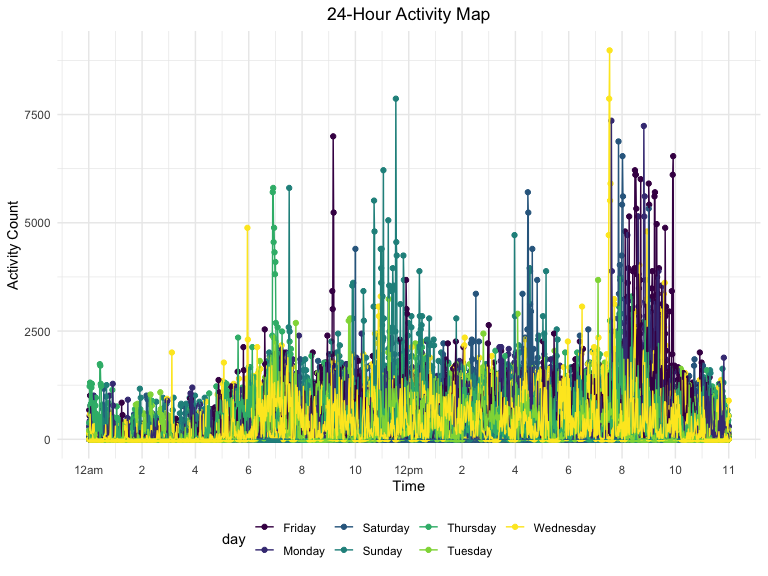
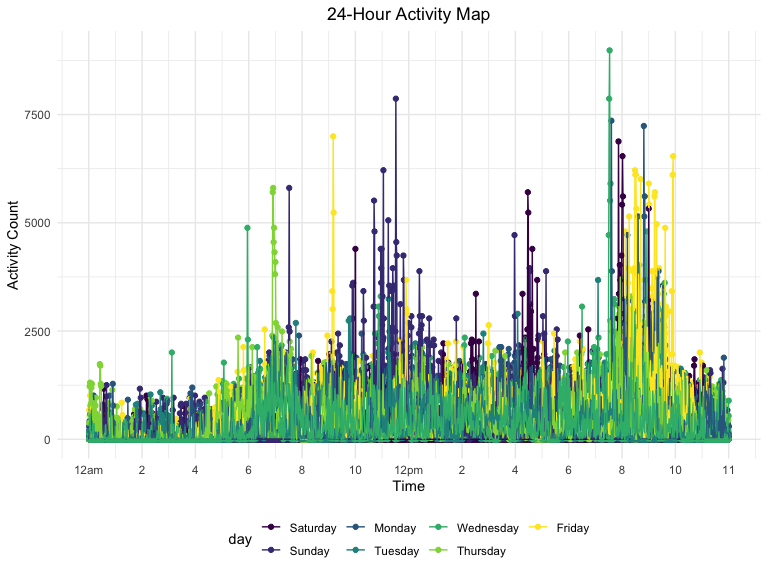
weekday char to factor

diff --git a/p8105_hw3_rs4025.md b/p8105_hw3_rs4025.md
@@ -1058,13 +1058,14 @@ accel =
     names_to = "minute_num", 
     values_to = "activity_count", 
     names_prefix = "activity_") %>% 
-  mutate( minute_num = as.numeric(minute_num), 
+  mutate( minute_num = as.numeric(minute_num),
           day_type = replace( day , 
                              day %in% c("Saturday", "Sunday"),
                              "weekend"), 
          day_type = replace( day_type , 
                              day %in% c("Monday", "Tuesday", "Wednesday", "Thursday", "Friday"),
-                             "weekday")) %>% 
+                             "weekday"),
+         day = forcats::fct_relevel(day, c("Saturday", "Sunday","Monday", "Tuesday", "Wednesday", "Thursday", "Friday"))) %>% 
   select( week, day_id, day, day_type, everything())
 ```
 
@@ -1075,7 +1076,7 @@ The data set `accel` reports accelerometer data of a 63 year-old man for
   - `week`: numeric, representing week number (1-5)
   - `day_id`: numeric, number of day (1-35) with no significant meaning
     to ordering
-  - `day`: character, weekday
+  - `day`: factor, weekday (Saturday- level 1, to Friday- level 7)
   - `day_type`: character, values: weekend or weekday
   - `minute_num`: numeric, minute number (1-1440)
   - `activity_count`: numeric, data reported on activity
@@ -1117,18 +1118,6 @@ week
 
 <th style="text-align:right;">
 
-Friday
-
-</th>
-
-<th style="text-align:right;">
-
-Monday
-
-</th>
-
-<th style="text-align:right;">
-
 Saturday
 
 </th>
@@ -1141,7 +1130,7 @@ Sunday
 
 <th style="text-align:right;">
 
-Thursday
+Monday
 
 </th>
 
@@ -1154,6 +1143,18 @@ Tuesday
 <th style="text-align:right;">
 
 Wednesday
+
+</th>
+
+<th style="text-align:right;">
+
+Thursday
+
+</th>
+
+<th style="text-align:right;">
+
+Friday
 
 </th>
 
@@ -1173,18 +1174,6 @@ Wednesday
 
 <td style="text-align:right;">
 
-480542.6
-
-</td>
-
-<td style="text-align:right;">
-
-78828.07
-
-</td>
-
-<td style="text-align:right;">
-
 376254
 
 </td>
@@ -1197,7 +1186,7 @@ Wednesday
 
 <td style="text-align:right;">
 
-355923.6
+78828.07
 
 </td>
 
@@ -1213,6 +1202,18 @@ Wednesday
 
 </td>
 
+<td style="text-align:right;">
+
+355923.6
+
+</td>
+
+<td style="text-align:right;">
+
+480542.6
+
+</td>
+
 </tr>
 
 <tr>
@@ -1220,18 +1221,6 @@ Wednesday
 <td style="text-align:right;">
 
 2
-
-</td>
-
-<td style="text-align:right;">
-
-568839.0
-
-</td>
-
-<td style="text-align:right;">
-
-295431.00
 
 </td>
 
@@ -1249,7 +1238,7 @@ Wednesday
 
 <td style="text-align:right;">
 
-474048.0
+295431.00
 
 </td>
 
@@ -1265,6 +1254,18 @@ Wednesday
 
 </td>
 
+<td style="text-align:right;">
+
+474048.0
+
+</td>
+
+<td style="text-align:right;">
+
+568839.0
+
+</td>
+
 </tr>
 
 <tr>
@@ -1272,18 +1273,6 @@ Wednesday
 <td style="text-align:right;">
 
 3
-
-</td>
-
-<td style="text-align:right;">
-
-467420.0
-
-</td>
-
-<td style="text-align:right;">
-
-685910.00
 
 </td>
 
@@ -1301,7 +1290,7 @@ Wednesday
 
 <td style="text-align:right;">
 
-371230.0
+685910.00
 
 </td>
 
@@ -1317,6 +1306,18 @@ Wednesday
 
 </td>
 
+<td style="text-align:right;">
+
+371230.0
+
+</td>
+
+<td style="text-align:right;">
+
+467420.0
+
+</td>
+
 </tr>
 
 <tr>
@@ -1324,18 +1325,6 @@ Wednesday
 <td style="text-align:right;">
 
 4
-
-</td>
-
-<td style="text-align:right;">
-
-154049.0
-
-</td>
-
-<td style="text-align:right;">
-
-409450.00
 
 </td>
 
@@ -1353,7 +1342,7 @@ Wednesday
 
 <td style="text-align:right;">
 
-340291.0
+409450.00
 
 </td>
 
@@ -1369,6 +1358,18 @@ Wednesday
 
 </td>
 
+<td style="text-align:right;">
+
+340291.0
+
+</td>
+
+<td style="text-align:right;">
+
+154049.0
+
+</td>
+
 </tr>
 
 <tr>
@@ -1376,18 +1377,6 @@ Wednesday
 <td style="text-align:right;">
 
 5
-
-</td>
-
-<td style="text-align:right;">
-
-620860.0
-
-</td>
-
-<td style="text-align:right;">
-
-389080.00
 
 </td>
 
@@ -1405,7 +1394,7 @@ Wednesday
 
 <td style="text-align:right;">
 
-549658.0
+389080.00
 
 </td>
 
@@ -1418,6 +1407,18 @@ Wednesday
 <td style="text-align:right;">
 
 445366
+
+</td>
+
+<td style="text-align:right;">
+
+549658.0
+
+</td>
+
+<td style="text-align:right;">
+
+620860.0
 
 </td>
 
